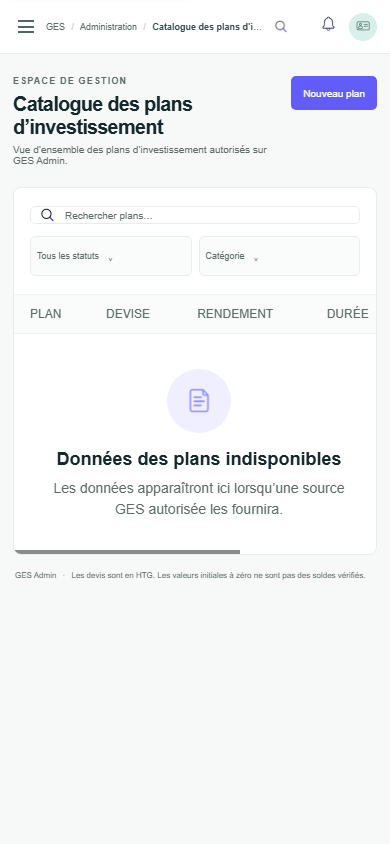
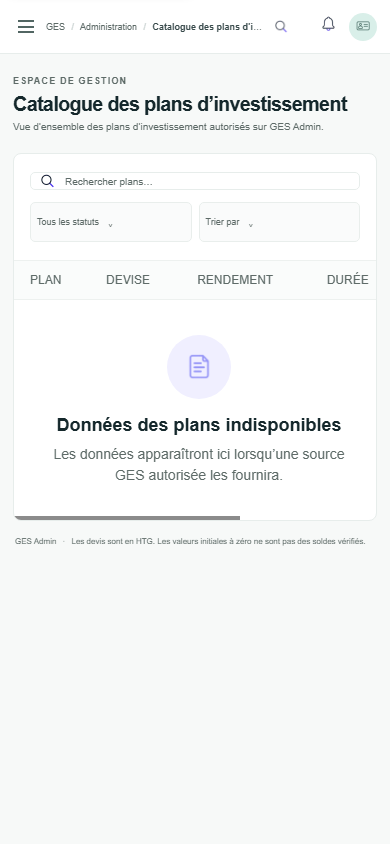
Match MF-14 catalogue controls

diff --git a/components/admin-shell.tsx b/components/admin-shell.tsx
@@ -148,7 +148,7 @@ export function AdminShell({ section }: { section: string }) {
     </aside>
     {menuOpen && <button className="drawer-backdrop visible" type="button" aria-label="Fermer le menu" tabIndex={-1} onClick={closeMenu}/>}
     <main className="main-area" id="main-content" tabIndex={-1} inert={menuOpen}><header className="topbar"><button ref={menuButtonRef} className="mobile-menu-toggle" onClick={() => menuOpen ? closeMenu() : setMenuOpen(true)} aria-label={menuOpen ? "Fermer le menu" : "Ouvrir le menu"} aria-expanded={menuOpen} aria-controls="primary-navigation">{menuOpen ? <Image src="/assets/icons/close.webp" alt="" width={19} height={19}/> : <span className="menu-bars" aria-hidden="true"/>}</button><div className="breadcrumb">GES <span>/</span> Administration <span>/</span> <b>{page.title}</b></div><div className="top-actions"><label className="search"><Image src="/assets/icons/search.webp" alt="" width={15} height={15}/><input placeholder="Rechercher" aria-label="Rechercher" value={searchQuery} onChange={(event) => setSearchQuery(event.target.value)}/><kbd>⌘ K</kbd></label><Link href="/admin/notifications" className="bell" aria-label="Notifications"><Image src="/assets/icons/notification.webp" alt="" width={19} height={19}/></Link><div className="top-avatar"><Image src="/assets/icons/identity.webp" alt="" width={16} height={16}/></div></div></header>
-      <div className={`content ${key === "plans/nouveau" ? "plan-content" : ""}`}><div className="page-heading"><div>{key !== "transactions" && <div className="eyebrow">ESPACE DE GESTION</div>}<h1>{page.title}</h1><p>{page.subtitle}</p></div><div className="heading-actions">{key === "plans" && <Link className="primary-button" href="/admin/plans/nouveau">Nouveau plan</Link>}<span className="status-pill preview-pill"><i/> Aperçu sans connexion aux données</span></div></div>
+      <div className={`content ${key === "plans/nouveau" ? "plan-content" : ""}`}><div className="page-heading"><div>{key !== "transactions" && <div className="eyebrow">ESPACE DE GESTION</div>}<h1>{page.title}</h1><p>{page.subtitle}</p></div><div className="heading-actions"><span className="status-pill preview-pill"><i/> Aperçu sans connexion aux données</span></div></div>
       {key === "notifications" ? <NotificationsWorkspace query={searchQuery} onQueryChange={setSearchQuery}/> : key === "plans/nouveau" ? <><Link href="/admin/plans" className="plan-back">← Retour aux plans</Link><PlanForm/></> : overview ? <>{financial && <div className="module-notice">Valeurs initiales — les montants affichés sont à confirmer et ne constituent pas des soldes vérifiés.</div>}<div className={`metric-grid ${financial ? "financial-metrics" : ""}`}>{metrics.map(([label,value,caption])=><MetricCard key={label} label={label} value={value} caption={caption}/>)}</div>
       {financial && <UsdUnavailable/>}
       <div className={`overview-grid ${financial ? "financial-overview-grid" : "command-overview-grid"}`}><section className="panel"><div className="panel-head"><div><h2>{financial ? "Tendance de trésorerie" : "Tendance financière"}</h2></div>{financial && <button className="select-button" disabled title="Les données sont indisponibles">Période⌄</button>}</div><div className="chart-empty"><div className="chart-lines"><span/><span/><span/><span/></div><div className="chart-message">Aucune donnée disponible</div></div></section><section className="panel breakdown"><div className="panel-head"><div><h2>{financial ? "Obligations à venir" : "Répartition des investissements"}</h2></div>{financial && <button className="dots" disabled aria-label="Options indisponibles">···</button>}</div>{financial ? <div className="donut-wrap"><p>Aucune donnée disponible</p></div> : <div className="donut-wrap"><div className="donut"><div/></div><p>Aucune donnée disponible</p></div>}</section></div>

diff --git a/components/module-workspace.tsx b/components/module-workspace.tsx
@@ -17,7 +17,7 @@ const pages: Record<string, ModulePage> = {
   kyc: { description: "Consultez les dossiers de vérification retournés par une source GES autorisée.", filters: ["Tous les dossiers", "Tous les statuts"], columns: ["PRIORITÉ", "DOSSIER", "DATE DE SOUMISSION", "RÉVISEUR", "STATUT", "ACTIONS"], empty: "Données KYC indisponibles" },
   transactions: { description: "Consultez les transactions retournées par une source GES autorisée.", searchPlaceholder: "Rechercher une transaction…", filters: ["Tous les types", "Tous les statuts", "Sélectionner une période"], columns: ["Date", "Référence", "Membre", "Type", "Montant (HTG)", "Statut", "Actions"], empty: "Données de transaction indisponibles" },
   "depots-retraits": { description: "Suivez les dépôts et retraits liés aux opérations GES.", filters: ["Tous les statuts", "Période"], tabs: ["Toutes les opérations", "Dépôts", "Retraits"], columns: ["DATE", "RÉFÉRENCE", "MEMBRE", "TYPE", "MONTANT (HTG)", "STATUT"], empty: "Données opérationnelles indisponibles" },
-  plans: { description: "Catalogue des plans d’investissement autorisés sur GES Admin.", filters: ["Tous les statuts", "Catégorie"], columns: ["PLAN", "DEVISE", "RENDEMENT", "DURÉE", "STATUT", "ACTIONS"], empty: "Données des plans indisponibles" },
+  plans: { description: "Catalogue des plans d’investissement autorisés sur GES Admin.", filters: ["Tous les statuts", "Trier par"], columns: ["PLAN", "DEVISE", "RENDEMENT", "DURÉE", "STATUT", "ACTIONS"], empty: "Données des plans indisponibles" },
   souscriptions: { description: "Consultez les souscriptions retournées par une source GES autorisée.", filters: ["Tous les statuts", "Tous les plans"], columns: ["DATE", "PLAN", "MEMBRE", "MONTANT INVESTI (HTG)", "STATUT", "ACTIONS"], empty: "Données de souscription indisponibles" },
   contrats: { description: "Registre des contrats d’investissement retournés par une source GES autorisée.", filters: ["Tous les statuts", "Tous les plans", "Période"], columns: ["CONTRAT", "MEMBRE", "PLAN", "PRINCIPAL (HTG)", "DATE DE DÉBUT", "ÉCHÉANCE", "STATUT", "DOCUMENTS"], empty: "Données contractuelles indisponibles" },
   financements: { description: "Dossiers de financement relevant de GES.", filters: ["Tous les statuts", "Tous les types"], columns: ["PROJET OU BÉNÉFICIAIRE", "MONTANT PROPOSÉ (HTG)", "ÉVALUATION DU RISQUE", "DOCUMENTS", "STATUT", "ÉTAPES"], empty: "Données de financement indisponibles" },

diff --git a/design/qa/README.md b/design/qa/README.md
@@ -143,4 +143,5 @@ Révision MF-10 du 29 octobre : le panneau de liste ne répète plus le titre et
 
 Reverification MF-15 du 29 octobre : états desktop replié (1440 × 1100), ouvert (1440 × 1350) et mobile pleine page (390 × 1367) capturés. Comparaisons desktop `comparison-mf15-default.png` et `comparison-mf15-open.png`; comparaison mobile `frame-review/MF-15-mobile-fullpage-comparison.png`. Le navigateur confirme HTG, six valeurs numériques à zéro, saisies textuelles vides, exactement deux actions visibles et désactivées, et les quatre panneaux dans l’état attendu. Pas de débordement horizontal; shell et typographie conservent des écarts visuels, les références restent proposées.
 
-Revue MF-14 : les captures dmin-plans-1440x1000.png et dmin-plans-390x844.png couvrent le catalogue vide. Le bouton « Nouveau plan » se trouve dans l’en-tête, aucun plan fictif n’est affiché, et Chrome DevTools confirme l’absence de débordement de page aux deux largeurs. Sur 390 px, le tableau possède un défilement horizontal interne.
+
+Revue MF-14 : les captures admin-plans-1440x1000.png et admin-plans-390x844.png couvrent le catalogue vide. Le filtre secondaire est Trier par, aucun plan fictif n'est affiche, et Chrome DevTools confirme l'absence de debordement de page aux deux largeurs. Sur 390 px, le tableau possede un defilement horizontal interne.

diff --git a/design/project-status.md b/design/project-status.md
@@ -47,4 +47,5 @@ Durcissement complémentaire du retour MFA : le formulaire reste sur l’étape 
 
 MF-02 : le champ TOTP est limité à six chiffres et n’accepte que des chiffres; aucun code prérempli ou fictif. Le contrôle s’appuie toujours sur le challenge Supabase réel. Le parcours nécessite encore un facteur/une session réels pour sa QA navigateur.
 
-Revue MF-14 du 29 octobre 2026 : titre et sous-titre du catalogue alignés sur la référence; l’action « Nouveau plan » est dans l’en-tête de page et le titre de panneau redondant a été supprimé. Captures réelles dmin-plans-1440x1000.png et dmin-plans-390x844.png. Chrome confirme l’état sans plan, l’absence de donnée fictive et aucune largeur de page supérieure au viewport à 1440 px ou 390 px. Le tableau conserve son défilement horizontal interne sur mobile. MF-14 reste une comparaison proposée, non verrouillée.
+
+Revue MF-14 (29 octobre 2026) : titre et sous-titre aligns sur la reference; titre de panneau redondant retire et filtre secondaire libelle Trier par. La creation reste accessible depuis la navigation. Captures admin-plans-1440x1000.png et admin-plans-390x844.png. Chrome confirme un catalogue sans plan fictif, sans debordement horizontal de page aux deux largeurs; la table garde son defilement horizontal interne sur mobile. Comparaison proposee, non verrouillee.
